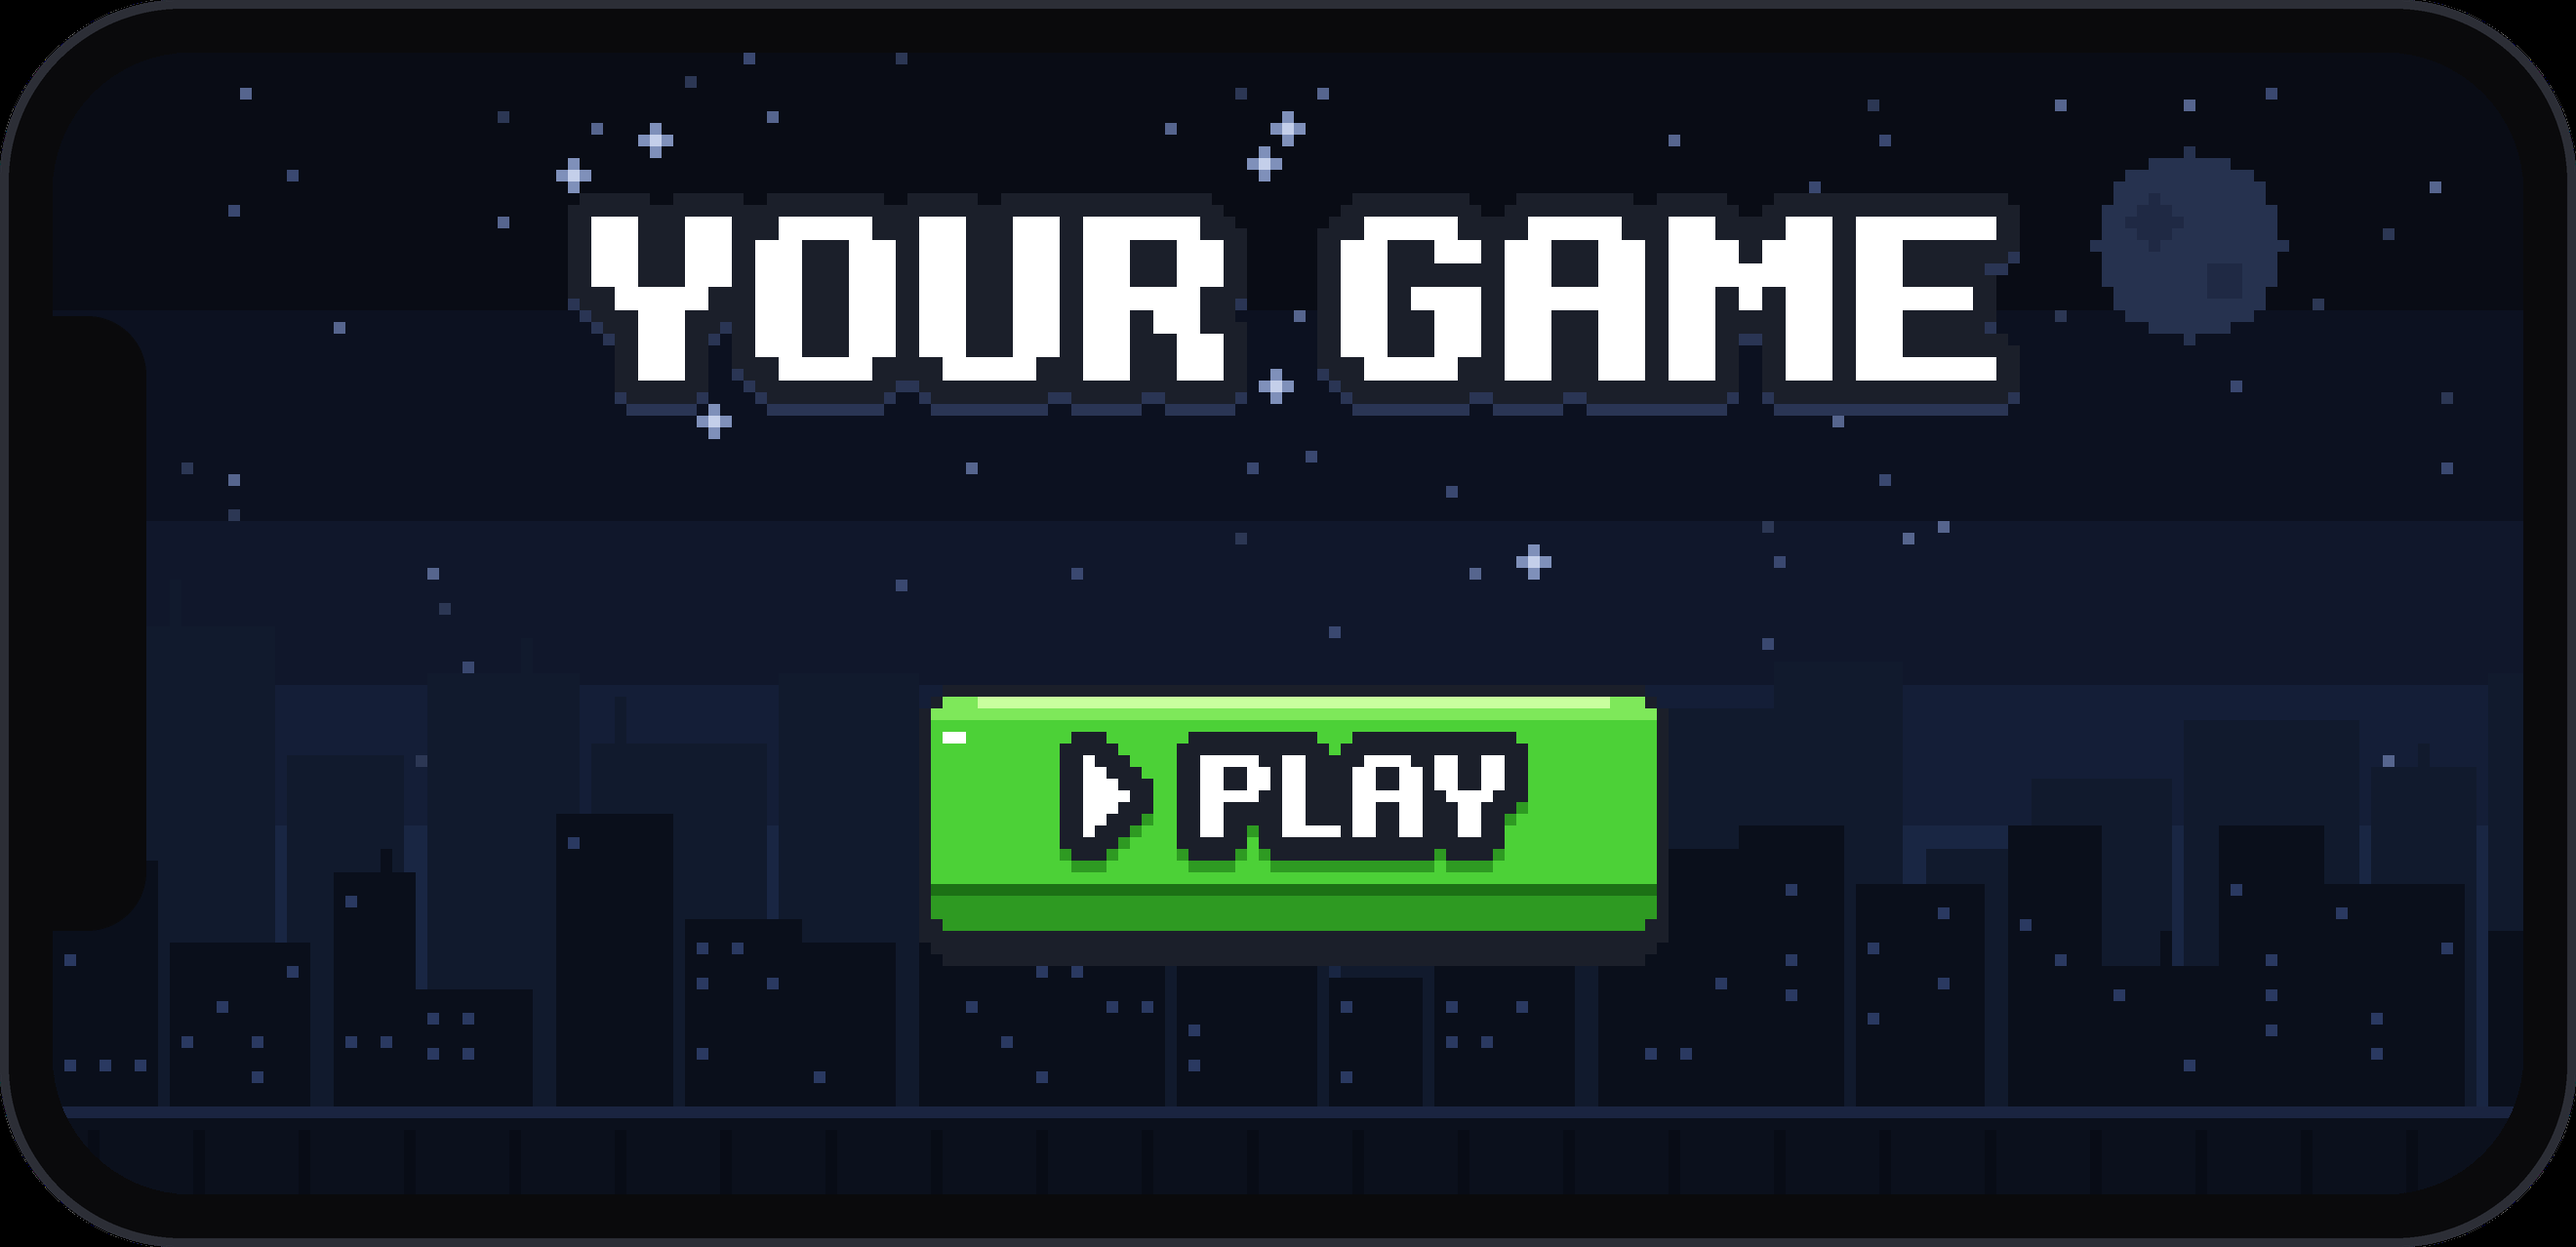
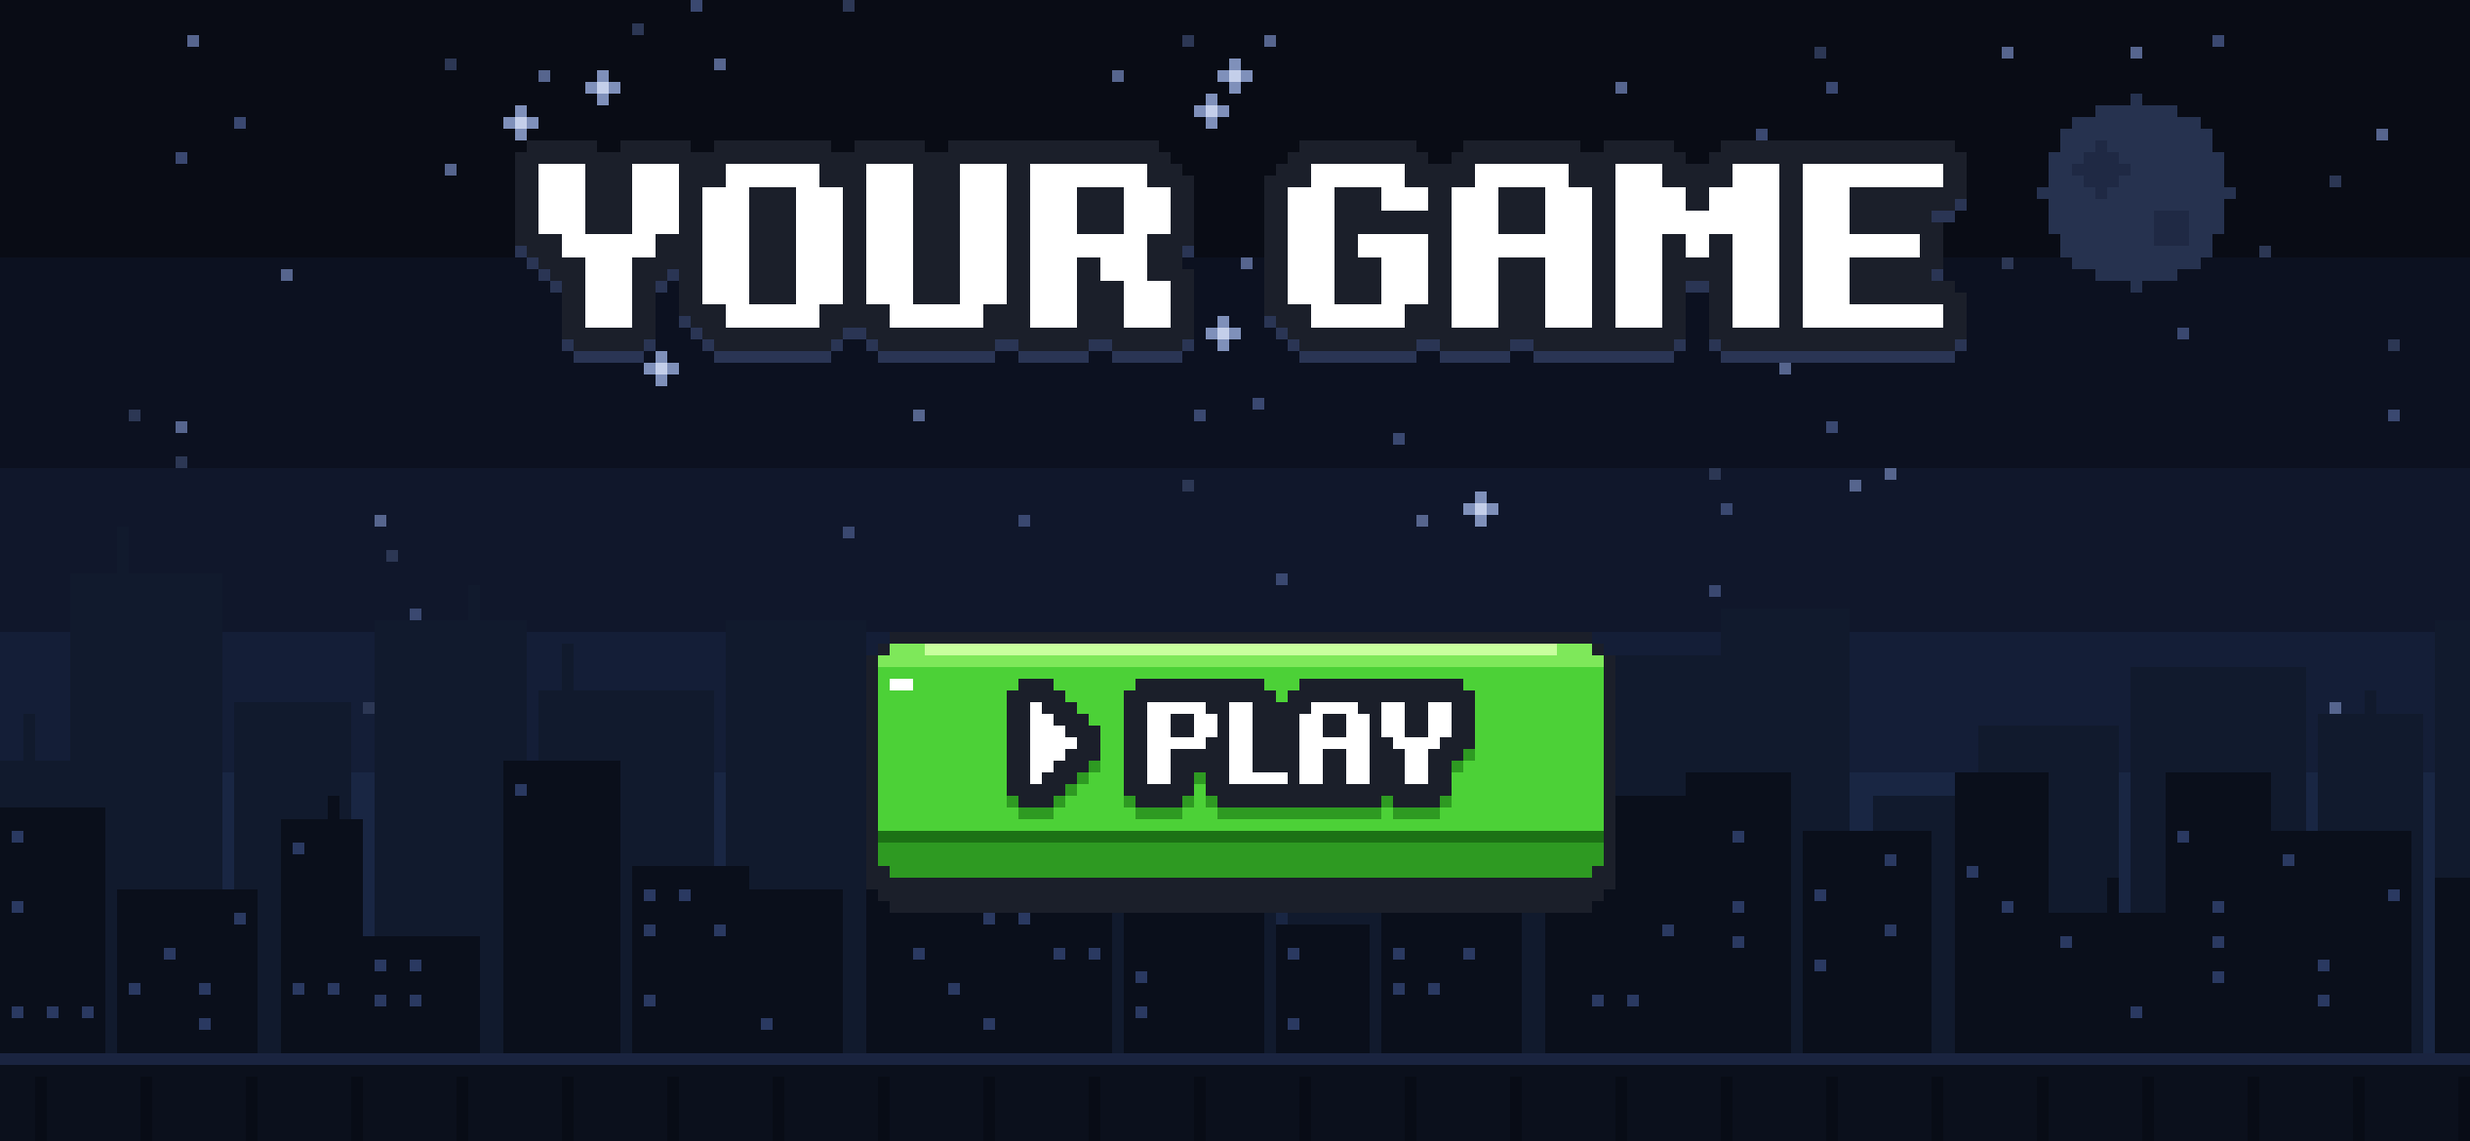
PLAY button previews: 3x phone renders are the bare 2532x1170 screen [skip ci]
Claude-Session: https://claude.ai/code/session_01462hsmBRA3FNB85t6Hjs2v

diff --git a/roblox/play-button/make_button.py b/roblox/play-button/make_button.py
@@ -428,12 +428,16 @@ def scene(p, seed=7):
     return a
 
 
-def phone(p, k):
-    """Scene in a phone frame. k = device pixels per point (1 for the overview,
-    3 for a true iPhone-resolution render)."""
+def screen(p, k):
+    """The menu scene at k device pixels per point, cropped to the screen."""
     art = Image.fromarray(upscale(scene(p), PT_PER_PX * k), 'RGBA')
-    sw, sh = PHONE_PT[0] * k, PHONE_PT[1] * k
-    art = art.crop((0, 0, sw, sh))
+    return art.crop((0, 0, PHONE_PT[0] * k, PHONE_PT[1] * k))
+
+
+def phone(p, k):
+    """Scene in a phone frame, k device pixels per point."""
+    art = screen(p, k)
+    sw, sh = art.size
     bez = 18 * k
     fw, fh = sw + 2 * bez, sh + 2 * bez
     ss = 2   # supersample only the frame shapes, never the art
@@ -477,7 +481,8 @@ def step1():
     overview(os.path.join(out, 'step1_phones_overview.png'))
     for key in 'ABC':
         p = palette(key)
-        phone(p, 3).convert('RGB').save(os.path.join(out, f'step1_phone_{key}_{p["name"]}_3x.png'), optimize=True)
+        # bare 2532 x 1170 screen: full-screen in landscape on an iPhone 13/14 = true size
+        screen(p, 3).convert('RGB').save(os.path.join(out, f'step1_phone_{key}_{p["name"]}_3x.png'), optimize=True)
         save(button(p), os.path.join(out, f'step1_{key}_{p["name"]}_512x192.png'))
 
 
